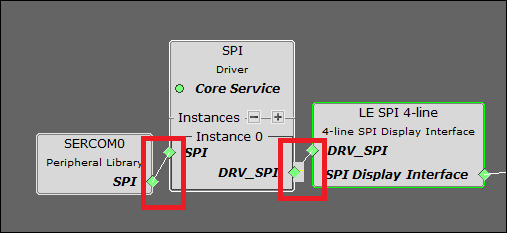
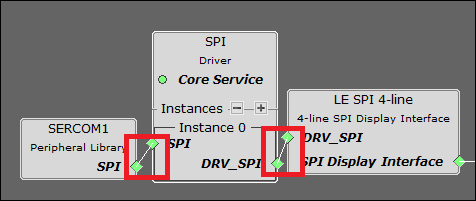
README.md

Changed region(s): [[0.0294, 0.1493, 1.0, 0.9254], [0.4118, 0.2687, 0.5, 0.3284]]

diff --git a/README.md b/README.md
@@ -130,18 +130,19 @@ SET_DISPLAY_START_LINE_COMMAND
 
 - To add satisfiers as shown below right click on the "⬦" in LE External Controller->SPI Display Interface and add the satisfier "LE SPI 4-line" to add the component. 
 
-![](docs/le_ext_cont_satis.png)
-
 - Again right click on the "o" in LE External Controller->SYS_TIME and add the satisfier "TIME" and will prompt an Auto-activation for "core"&"FreeRTOS" component, give yes to add the component. 
 
 - Again right click on the "⬦" in TIME->TMR and add the satisfier "TC0" to add the component.
 
+![](docs/le_ext_cont_satis.png)
+
 **Step 6** - In MCC harmony project graph, select LE SPI 4-line and add satisfiers by right click on the "⬦" in LE SPI 4-line->DRV_SPI to add the "SPI" component and configure SPI as shown below.
+
 ![](docs/spi_satis.png)
 
 ![](docs/8_spi.png)
 
-**Step 7** - In MCC harmony project graph, select SPI and add satisfiers by right click on the "⬦" in Instance->SPI to add the SERCOM0 component and configure SERCOM1 as shown below.
+**Step 7** - In MCC harmony project graph, select SPI and add satisfiers by right click on the "⬦" in Instance->SPI to add the SERCOM1 component and configure SERCOM1 as shown below.
 
 ![](docs/7_sercom1.png)
 
@@ -165,7 +166,7 @@ SET_DISPLAY_START_LINE_COMMAND
 
 **Step 11** - In MCC harmony project graph, select system and configure as mentioned below.
 
-![](docs/2_system1.png) ![](docs/3_system2.png)
+![](docs/2_system1.png)
 
 **Step 12** - In MCC harmony project graph, select Core and configure as mentioned below.
 
@@ -188,7 +189,7 @@ GFX_DISP_INTF_PIN_EN
 
 ![](docs/pinsetting.png)
 
-**Step 15** - From the unzipped folder copy the folder click_routines(which contains the oled_c.h & oled_c.c) to the folder firmware/src under your MPLAB Harmony v3 application project.
+**Step 15** - [Generate](https://onlinedocs.microchip.com/pr/GUID-A5330D3A-9F51-4A26-B71D-8503A493DF9C-en-US-1/index.html?GUID-9C28F407-4879-4174-9963-2CF34161398E) the code and then from the unzipped folder copy the folder click_routines(which contains the oled_c.h & oled_c.c) to the folder firmware/src under your MPLAB Harmony v3 application project.
 
 **Step 16** - Add the Header (oled_c.h) and Source file (oled_c.c).
 
@@ -241,13 +242,13 @@ GFX_DISP_INTF_PIN_EN
 
 - From the Cloned folder copy "WBZ451_ZIGBEE_CI_OLED_LEGATO.zip" file to the folder firmware\src\config\default under your MPLAB Harmony v3 application project.
 
-- Open Legato graphics composer from MCC Plugin.
+- Open Legato graphics composer from “Project Graph > Plugins > Legato Graphics Composer”.
 
 ![](docs/legato1.png)
 
 ![](docs/legato2.png)
 
-- Design graphics using MPLAB Harmony “Legato Graphics Composer”. Launch it using “Project Graph > Plugins > Legato Graphics Composer”.
+- Design the graphics using “Legato Graphics Composer”.
 
 ![](docs/legato_config.png)
 
